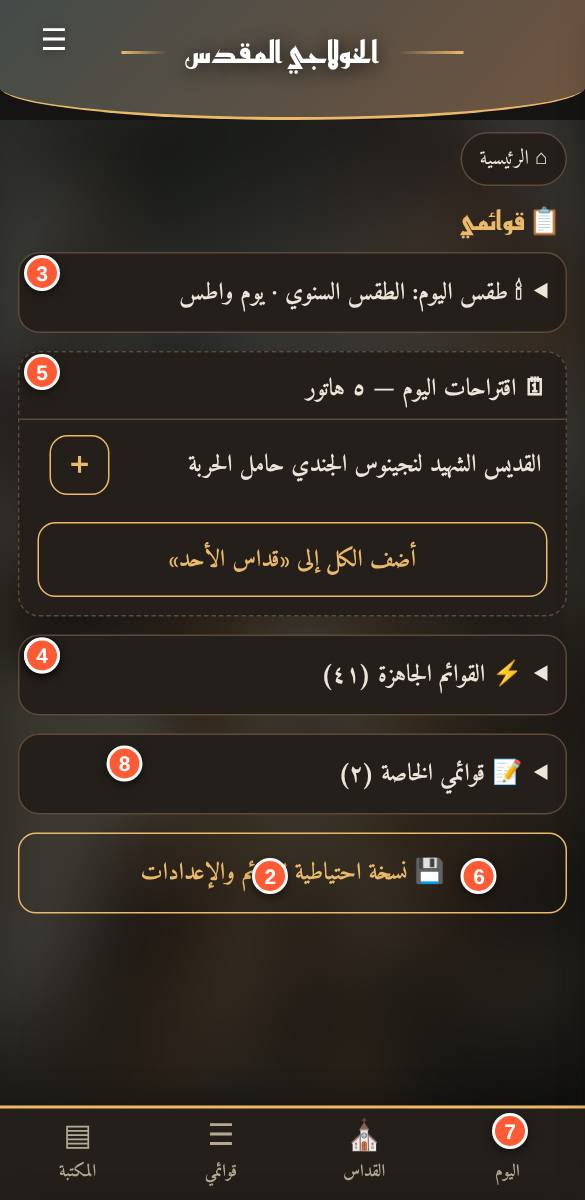
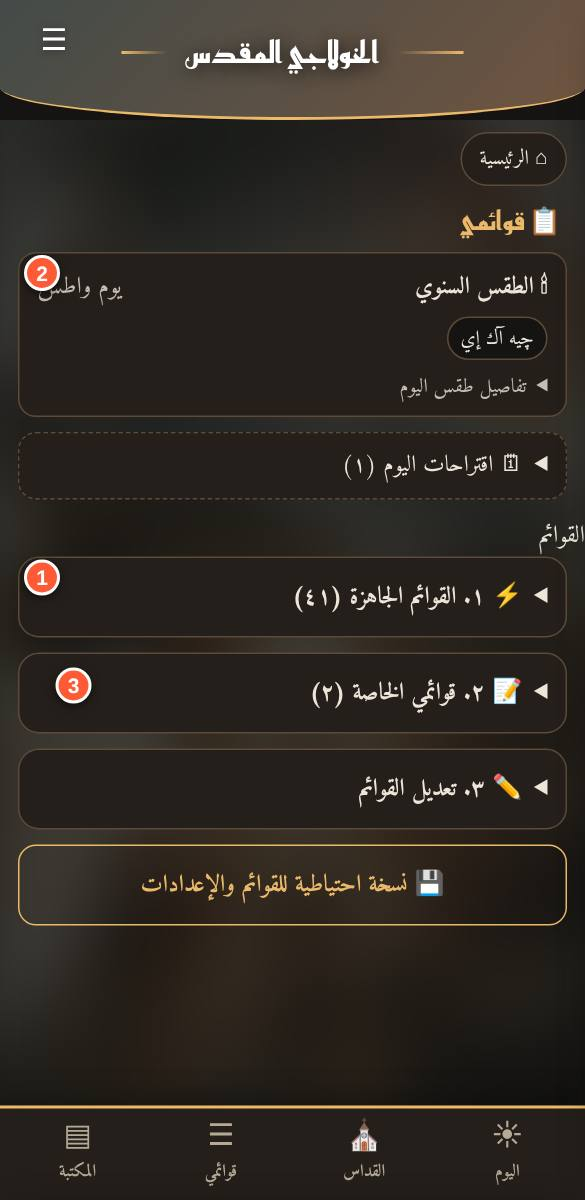
إعادة بناء «قوائمي»: كارت طقس اليوم الصغير وثلاثة أقسام (جاهزة، خاصة، تعديل) (1.6.0)
Claude-Session: https://claude.ai/code/session_01TxsQH8W41ZBNhnMhe9bVaK

diff --git a/index.html b/index.html
@@ -570,6 +570,10 @@ html{scroll-padding-top:var(--tbh,0px)}
 .vx:before,.vx:after{content:"";flex:1;height:2px;background:linear-gradient(90deg,transparent,var(--acc),transparent);opacity:.55}
 .vx span{font-size:calc(var(--fs)*.9);line-height:1}
 .dxcur{margin:0 14px 8px;font-size:calc(var(--fs)*.7)}.dxcur small{opacity:.7}.dxall .dxi.cur{border-color:var(--acc)}
+.rtm{margin:0 12px 10px;padding:8px 12px;border:1.5px solid var(--line);border-radius:12px;background:var(--card)}.rtm1{display:flex;justify-content:space-between;gap:8px;font-size:calc(var(--fs)*.72)}.rtm1 span{opacity:.8}.rtm2{display:flex;flex-wrap:wrap;gap:4px;margin:6px 0}.rtch{font-size:calc(var(--fs)*.6);padding:2px 8px;border-radius:999px;background:var(--bg);border:1px solid var(--line)}.rtm details summary{font-size:calc(var(--fs)*.6);opacity:.8;cursor:pointer}.rtm ul{margin:4px 0;padding-inline-start:18px;font-size:calc(var(--fs)*.62)}.rtm small{display:block;opacity:.7;font-size:calc(var(--fs)*.55)}
+.dxtd2{margin:0 12px 10px;border:1.5px dashed var(--line);border-radius:12px;background:var(--card)}.dxtd2>summary{padding:8px 12px;font-size:calc(var(--fs)*.7);cursor:pointer}
+.dxsec{margin:0 12px 10px;border:1.5px solid var(--line);border-radius:14px;background:var(--card)}.dxsec>summary{padding:12px;font-weight:700;cursor:pointer}.dxin{padding:0 8px 10px}.dxsub{margin:10px 4px 4px;font-weight:700;font-size:calc(var(--fs)*.65);opacity:.8}
+#dxsel{width:100%;padding:10px;border-radius:10px;border:1.5px solid var(--line);background:var(--bg);color:var(--ink);font-size:calc(var(--fs)*.7)}.dxsr{margin:8px 0}.dxsr input{width:100%;padding:10px;border-radius:10px;border:1.5px solid var(--line);background:var(--bg);color:var(--ink);font-size:calc(var(--fs)*.7)}
 .dxpre{margin:0 12px 12px;border:1.5px solid var(--line);border-radius:14px;background:var(--card)}.dxpre>summary{padding:12px;font-weight:700;cursor:pointer}
 .dxtd .dxsn{display:block;padding:0 14px 6px;color:var(--mute);font-size:.8rem}
 .dxi .go small{display:block;font-weight:400;font-size:0.72rem;color:var(--mute)}
@@ -1323,24 +1327,46 @@ function dxPresets(){
   var an=[];D.groups.forEach(function(g){if(g.id!=="tawzi")return;g.sections.forEach(function(x){if(x.occ==="always"&&BYID[x.id]&&BYID[x.id].has)an.push(x.id)})});
   if(an.length)out.push({k:"sunday",n:"أحد عادي — مدائح التوزيع السنوية",ids:an,t:sun});
   out.sort(function(a,b){return (b.t?1:0)-(a.t?1:0)});return out}
-var DXO={};
-function dxItemsHtml(x){var a=x.items.filter(function(id){return BYID[id]});if(!a.length)return '<div class="empty"><b>القائمة فارغة</b>اضغط ＋ بجوار أي ذكصولوجية أو قسم لإضافته، أو من الزر العائم أثناء القراءة.</div>';
-  return '<div class="dxl">'+a.map(function(id,i){return '<div class="dxi"><span class="n">'+ar9(i+1)+'</span><button class="go" data-lid="'+x.id+'" data-dxgo="'+id+'">'+esc(BYID[id].title)+'<small>'+esc(BYID[id].group.title)+'</small></button><button class="mv" data-lid="'+x.id+'" data-dxmv="'+id+'" data-d="-1" '+(i?'':'disabled')+' aria-label="أعلى">▲</button><button class="mv" data-lid="'+x.id+'" data-dxmv="'+id+'" data-d="1" '+(i<a.length-1?'':'disabled')+' aria-label="أسفل">▼</button><button class="mv" data-lid="'+x.id+'" data-dxdel="'+id+'" aria-label="حذف">✕</button></div>'}).join("")+'</div>'}
-function dxListRow(x){var first=x.items.filter(function(id){return BYID[id]})[0],fx=!!x.fixed,op=DXO[x.id]?' open':'';
-  return '<details class="dxl1" data-dxo="'+x.id+'"'+op+'><summary>'+(fx?'🔒 ':'')+esc(x.name)+' <small>'+ar9(x.items.length)+' قسمًا</small></summary><div class="dxbar">'+(first?'<button class="pri" data-lid="'+x.id+'" data-dxgo="'+first+'">▶ ابدأ القراءة</button>':'')+'<button data-lid="'+x.id+'" data-dxdup="1">⧉ '+(fx?'انسخها لقوائمي':'نسخ')+'</button>'+(fx?'':'<button data-lid="'+x.id+'" data-dxren="1">✎ تسمية</button><button data-lid="'+x.id+'" data-dxrmid="'+x.id+'">🗑 حذف</button>'+(x.items.length?'<button data-lid="'+x.id+'" data-dxclear="1">تفريغ</button>':''))+'</div>'+(fx?'<p class="hint" style="margin:0 12px 10px">🔒 قائمة ثابتة تتجدد مع المحتوى. انسخها لتعدّل عليها.</p>':dxItemsHtml(x))+'</details>'}
+var DXO={},DXSEL="";
+function riteMini(){
+  var r=null;try{r=window.KCAL&&KCAL.rite?KCAL.rite(new Date()):null}catch(e){}if(!r)return "";
+  var ch=r.hymns.map(function(x){return '<span class="rtch">'+esc(x)+'</span>'}).join("");
+  var det=(r.ebsTune?'<li>الإبصاليات بـ«'+esc(r.ebsTune)+'»</li>':'')+(r.doxTune?'<li>ذكصولوجيات رفع البخور بوزن: '+esc(r.doxTune)+'</li>':'')+r.notes.map(function(x){return '<li>'+esc(x)+'</li>'}).join("")+(r.occNotes||[]).map(function(x){return '<li>'+esc(x)+'</li>'}).join("");
+  return '<div class="rtm"><div class="rtm1"><b>🕯 '+esc(r.rite)+'</b><span>يوم '+esc(r.tune)+'</span></div><div class="rtm2">'+ch+'</div><details><summary>تفاصيل طقس اليوم</summary><ul>'+det+'</ul><small>المصدر: ملاحظات طقسية — كتاب أسامة لطفي (مسوّدة، لا تحل محل توجيه الكاهن).</small></details></div>'}
+function dxRows(x,own){var a=x.items.filter(function(id){return BYID[id]});if(!a.length)return '<div class="empty"><b>القائمة فارغة</b>أضف أقساما من مربع البحث أعلاه.</div>';
+  return '<div class="dxl">'+a.map(function(id,i){return '<div class="dxi"><span class="n">'+ar9(i+1)+'</span><button class="go" data-lid="'+x.id+'" data-dxgo="'+id+'">'+esc(BYID[id].title)+'<small>'+esc(BYID[id].group.title)+'</small></button>'+(own?'<button class="mv" data-lid="'+x.id+'" data-dxmv="'+id+'" data-d="-1" '+(i?'':'disabled')+' aria-label="أعلى">▲</button><button class="mv" data-lid="'+x.id+'" data-dxmv="'+id+'" data-d="1" '+(i<a.length-1?'':'disabled')+' aria-label="أسفل">▼</button><button class="mv" data-lid="'+x.id+'" data-dxdel="'+id+'" aria-label="حذف">✕</button>':'')+'</div>'}).join("")+'</div>'}
+function dxEditHtml(d,pr){
+  var opts='<optgroup label="القوائم الجاهزة">'+d.lists.filter(function(x){return x.fixed}).map(function(x){return '<option value="'+x.id+'"'+(DXSEL===x.id?' selected':'')+'>'+esc(x.name)+'</option>'}).join("")+pr.map(function(x){return '<option value="pre:'+x.k+'"'+(DXSEL==="pre:"+x.k?' selected':'')+'>'+esc(x.n)+'</option>'}).join("")+'</optgroup><optgroup label="قوائمي الخاصة">'+d.lists.filter(function(x){return !x.fixed}).map(function(x){return '<option value="'+x.id+'"'+(DXSEL===x.id?' selected':'')+'>'+esc(x.name)+'</option>'}).join("")+'</optgroup>';
+  var h='<select id="dxsel" aria-label="اختر القائمة"><option value="">— اختر قائمة لتعديلها أو نسخها —</option>'+opts+'</select>';
+  var sel=d.lists.filter(function(x){return x.id===DXSEL})[0],pre=DXSEL.indexOf("pre:")===0?pr.filter(function(x){return "pre:"+x.k===DXSEL})[0]:null;
+  if(!sel&&!pre)return h+'<p class="hint" style="margin:8px 4px">اختر قائمة من «الجاهزة» أو «الخاصة» لتنسخها أو تعدّلها أو تضيف إليها أو تحذف منها أو تغيّر اسمها.</p>';
+  if(pre){var pl={id:DXSEL,items:pre.ids};return h+'<div class="dxbar"><button class="pri" data-dxpre="'+pre.k+'">⧉ انسخها إلى قوائمي الخاصة</button></div><p class="hint" style="margin:0 4px 8px">قائمة جاهزة للمناسبة (للاطلاع فقط). انسخها لتعدّل عليها.</p>'+dxRows({id:DXSEL,items:pre.ids},false)}
+  var own=!sel.fixed;
+  h+='<div class="dxbar"><button data-lid="'+sel.id+'" data-dxdup="1">⧉ '+(own?'نسخ':'انسخها لقوائمي')+'</button>'+(own?'<button data-lid="'+sel.id+'" data-dxren="1">✎ تغيير الاسم</button><button data-lid="'+sel.id+'" data-dxrmid="'+sel.id+'">🗑 حذف القائمة</button>'+(sel.items.length?'<button data-lid="'+sel.id+'" data-dxclear="1">تفريغ</button>':''):'')+'</div>';
+  if(own)h+='<div class="dxsr"><input id="dxq" type="search" placeholder="🔎 أضف أقساما: اكتب جزءا من العنوان" autocomplete="off"><div id="dxres"></div></div>';
+  else h+='<p class="hint" style="margin:0 4px 8px">🔒 قائمة ثابتة تتجدد مع المحتوى (للاطلاع). انسخها لتعدّل عليها.</p>';
+  return h+dxRows(sel,own)}
 function dxView(){
-  var keep=document.querySelector(".dxpre")?window.scrollY:0;
+  var keep=document.querySelector(".dxsec")?window.scrollY:0;
   var d=dxd(),h='<div class="crumb"><button data-nav="#/">⌂ الرئيسية</button></div><div class="gh"><h2>📋 قوائمي</h2></div>';
-  h+=riteCard();
+  h+=riteMini();
   var t=dxToday(),tg=dxTgt(d);
   if(t.cd&&t.dx.length){var miss=tg?t.dx.filter(function(x){return tg.items.indexOf(x.id)<0}).length:0;
-    h+='<div class="dxtd"><b>🗓 اقتراحات اليوم — '+ar9(t.cd.d)+' '+esc(CMN[t.cd.m])+'</b>'+(t.season?'<small class="dxsn">'+esc(t.season)+'</small>':'')+t.dx.map(function(x){return '<div class="dxi"><button class="go" data-nav="#/s/'+x.id+'">'+esc(x.title)+'</button>'+dxBtn(x.id)+'</div>'}).join("")+(miss?'<button class="dxall" data-dxaddtoday="1">أضف الكل إلى «'+esc(shortN(tg.name,16))+'»</button>':'')+'</div>'}
+    h+='<details class="dxtd2"><summary>🗓 اقتراحات اليوم ('+ar9(t.dx.length)+')'+(t.season?' · '+esc(t.season):'')+'</summary>'+t.dx.map(function(x){return '<div class="dxi"><button class="go" data-nav="#/s/'+x.id+'">'+esc(x.title)+'</button>'+dxBtn(x.id)+'</div>'}).join("")+(miss?'<button class="dxall" data-dxaddtoday="1">أضف الكل إلى «'+esc(shortN(tg.name,16))+'»</button>':'')+'</details>'}
   var fixed=d.lists.filter(function(x){return x.fixed}),mine=d.lists.filter(function(x){return !x.fixed}),pr=dxPresets();
-  h+='<details class="dxpre" data-dxo="__ready"'+(DXO.__ready?' open':'')+'><summary>⚡ القوائم الجاهزة ('+ar9(fixed.length+pr.length)+')</summary><div class="dxin">'+fixed.map(function(x){var f1=x.items.filter(function(id){return BYID[id]})[0];return '<div class="dxi"><span class="go">🔒 '+esc(x.name)+'<small>'+ar9(x.items.length)+' قسمًا</small></span>'+(f1?'<button class="mv" data-lid="'+x.id+'" data-dxgo="'+f1+'">▶ قراءة</button>':'')+'<button class="mv" data-lid="'+x.id+'" data-dxdup="1">＋ قائمة</button></div>'}).join("")
-    +(pr.length?'<div class="h2"><span>قوائم المناسبات</span></div><p class="hint" style="margin:6px 14px">«▶ قراءة» تبدأ قراءة القائمة فورا، و«＋ قائمة» تنسخها إلى قوائمك الخاصة لتعدّل عليها.</p>'+pr.map(function(x){return '<div class="dxi"><span class="go">'+(x.t?'🗓 ':'')+esc(x.n)+'<small>'+ar9(x.ids.length)+' قسمًا'+(x.t?' · اليوم':'')+'</small></span><button class="mv" data-dxpre="'+x.k+'" data-go="1">▶ قراءة</button><button class="mv" data-dxpre="'+x.k+'">＋ قائمة</button></div>'}).join(""):'')+'</div></details>';
-  h+='<details class="dxpre" data-dxo="__mine"'+(DXO.__mine?' open':'')+'><summary>📝 قوائمي الخاصة ('+ar9(mine.length)+')</summary><div class="dxin">'+mine.map(dxListRow).join("")+'<div class="dxbar"><button data-dxnew="1">＋ قائمة جديدة</button></div></div></details>';
+  var rd=function(x){var f1=x.items.filter(function(id){return BYID[id]})[0];return '<div class="dxi"><span class="go">'+(x.fixed?'🔒 ':'')+esc(x.name)+'<small>'+ar9(x.items.length)+' قسمًا</small></span>'+(f1?'<button class="mv" data-lid="'+x.id+'" data-dxgo="'+f1+'">▶ قراءة</button>':'')+'</div>'};
+  var sec=function(k,title,body,open){return '<details class="dxsec" data-dxo="'+k+'"'+((DXO[k]===undefined?open:DXO[k])?' open':'')+'><summary>'+title+'</summary><div class="dxin">'+body+'</div></details>'};
+  h+='<div class="h2"><span>القوائم</span></div>';
+  h+=sec("__ready","⚡ ١. القوائم الجاهزة ("+ar9(fixed.length+pr.length)+")",fixed.map(rd).join("")+(pr.length?'<div class="dxsub">قوائم المناسبات</div>'+pr.map(function(x){return '<div class="dxi"><span class="go">'+(x.t?'🗓 ':'')+esc(x.n)+'<small>'+ar9(x.ids.length)+' قسمًا'+(x.t?' · اليوم':'')+'</small></span><button class="mv" data-dxpre="'+x.k+'" data-go="1">▶ قراءة</button></div>'}).join(""):''),false);
+  h+=sec("__mine","📝 ٢. قوائمي الخاصة ("+ar9(mine.length)+")",(mine.length?mine.map(rd).join(""):'<p class="hint" style="margin:6px 4px">لا توجد قوائم خاصة بعد. انسخ قائمة جاهزة أو أنشئ قائمة جديدة من قسم التعديل.</p>')+'<div class="dxbar"><button data-dxnew="1">＋ قائمة جديدة</button></div>',false);
+  h+=sec("__edit","✏ ٣. تعديل القوائم",dxEditHtml(d,pr),!!DXSEL);
   h+='<div class="dxbar"><button data-ks="export">💾 نسخة احتياطية للقوائم والإعدادات</button></div>'+bnav('');app.innerHTML=h;window.scrollTo(0,keep)}
 document.addEventListener("toggle",function(e){var o=e.target&&e.target.getAttribute&&e.target.getAttribute("data-dxo");if(o)DXO[o]=e.target.open},true);
+window.addEventListener("load",function(){setTimeout(function(){if(location.hash==="#/dxlist"&&!document.querySelector(".rtm")&&window.KCAL)dxView()},300)});
+document.addEventListener("change",function(e){if(e.target&&e.target.id==="dxsel"){DXSEL=e.target.value;DXO.__edit=true;dxView()}});
+document.addEventListener("input",function(e){if(!e.target||e.target.id!=="dxq")return;var q=norm(e.target.value),out=document.getElementById("dxres");if(!out)return;if(q.length<2){out.innerHTML="";return}
+  var d=dxd(),sel=d.lists.filter(function(x){return x.id===DXSEL})[0],res=[];Object.keys(BYID).forEach(function(id){var b=BYID[id];if(b.has&&res.length<30&&norm(b.title).indexOf(q)>=0&&(!sel||sel.items.indexOf(id)<0))res.push(id)});
+  out.innerHTML=res.length?res.map(function(id){return '<div class="dxi"><span class="go">'+esc(BYID[id].title)+'<small>'+esc(BYID[id].group.title)+'</small></span><button class="mv" data-dxaddp="'+id+'">＋ أضف</button></div>'}).join(""):'<p class="hint" style="margin:6px 4px">لا نتائج.</p>'});
 function dxTgt(d){d=d||dxd();var c=d.lists.filter(function(x){return x.id===d.cur})[0];if(c&&!c.fixed)return c;var u=d.lists.filter(function(x){return !x.fixed})[0];if(!u){u={id:"l"+Date.now(),name:"قائمتي",items:[]};d.lists.push(u);dxw(d)}return u}
 var CMN=["توت","بابة","هاتور","كيهك","طوبة","أمشير","برمهات","برمودة","بشنس","بؤونة","أبيب","مسرى","النسيء"];
 var OCCL=[["nayrouz","عيد النيروز"],["cross","عيد الصليب"],["nativity","الميلاد"],["kiahk","شهر كيهك"],["kiahk-sun1","أحد كيهك الأول"],["kiahk-sun2","أحد كيهك الثاني"],["kiahk-sun3","أحد كيهك الثالث"],["kiahk-sun4","أحد كيهك الرابع"],["epiphany","الغطاس"],["nineveh","صوم نينوى"],["lent","الصوم الكبير"],["lent-sun1","الأحد الأول من الصوم الكبير"],["lent-sun2","الأحد الثاني من الصوم الكبير"],["lent-sun3","الأحد الثالث من الصوم الكبير"],["lent-sun4","الأحد الرابع من الصوم الكبير"],["lent-sun5","الأحد الخامس من الصوم الكبير"],["lent-sun6","الأحد السادس من الصوم الكبير"],["lentfri","جمعة ختام الصوم"],["lazarus","سبت لعازر"],["palm","أحد الشعانين"],["holyweek","أسبوع الآلام"],["joysat","سبت الفرح"],["resurrection","القيامة"],["pascha","الخمسين المقدسة"],["thomas","أحد توما"],["pascha-sun2","الأحد الثاني من الخمسين"],["pascha-sun3","الأحد الثالث من الخمسين"],["pascha-sun4","الأحد الرابع من الخمسين"],["pascha-sun5","الأحد الخامس من الخمسين"],["pascha-sun6","الأحد السادس من الخمسين"],["ascension","الصعود"],["pentecost","العنصرة"],["apostlesfast","صوم الرسل"],["apostles","عيد الرسل"],["annunciation","البشارة"],["virgin","السيدة العذراء"],["michael","رئيس الملائكة ميخائيل"]];
@@ -1470,12 +1496,13 @@ app.addEventListener("click",function(e){
   var da=e.target.closest("[data-dxadd]");if(da){var id=da.getAttribute("data-dxadd"),a=dxl(),k=a.indexOf(id);if(k>=0)a.splice(k,1);else a.push(id);dxs(a);
     document.querySelectorAll('[data-dxadd="'+id+'"]').forEach(function(b){if(b.id==="dxfab")return;var on=a.indexOf(id)>=0;b.classList.toggle("on",on);b.textContent=on?"✓":"＋"});var cb=document.querySelector('.dxbar [data-nav="#/dxlist"]');if(cb)cb.textContent='📋 '+shortN(dxc().name,18)+' ('+ar9(a.length)+') · قوائمي';dxFab();return}
   var li=e.target.closest("[data-lid]");if(li){var dq=dxd();dq.cur=li.getAttribute("data-lid");dxw(dq)}
-  var pc=e.target.closest("[data-dxpre]");if(pc){var P2=dxPresets().filter(function(x){return x.k===pc.getAttribute("data-dxpre")})[0];if(P2){var dd2=dxd(),id8="l"+Date.now();dd2.lists.push({id:id8,name:P2.n,items:P2.ids.slice()});dd2.cur=id8;dxw(dd2);if(pc.getAttribute("data-go")&&P2.ids.length){PL=true;location.hash="#/s/"+P2.ids[0];return}dxView();toast("أُضيفت قائمة «"+P2.n+"»")}return}
+  var ap=e.target.closest("[data-dxaddp]");if(ap){var da=dxd();da.lists.forEach(function(l){if(l.id===DXSEL&&!l.fixed){var pid=ap.getAttribute("data-dxaddp");if(l.items.indexOf(pid)<0)l.items.push(pid)}});dxw(da);var qv=document.getElementById("dxq"),qq=qv?qv.value:"";dxView();var q2=document.getElementById("dxq");if(q2){q2.value=qq;q2.dispatchEvent(new Event("input",{bubbles:true}))}toast("أُضيف");return}
+  var pc=e.target.closest("[data-dxpre]");if(pc){var P2=dxPresets().filter(function(x){return x.k===pc.getAttribute("data-dxpre")})[0];if(P2){var dd2=dxd(),id8="l"+Date.now();dd2.lists.push({id:id8,name:P2.n,items:P2.ids.slice()});dd2.cur=id8;dxw(dd2);if(pc.getAttribute("data-go")&&P2.ids.length){PL=true;location.hash="#/s/"+P2.ids[0];return}DXSEL=id8;DXO.__edit=true;dxView();toast("أُضيفت قائمة «"+P2.n+"»")}return}
   var sw=e.target.closest("[data-dxsw]");if(sw){var d1=dxd();d1.cur=sw.getAttribute("data-dxsw");dxw(d1);dxView();return}
-  if(e.target.closest("[data-dxnew]")){var nn=prompt("اسم القائمة الجديدة (مثال: قداس الأحد)");if(nn&&nn.trim()){var d2=dxd(),id2="l"+Date.now();d2.lists.push({id:id2,name:nn.trim(),items:[]});d2.cur=id2;dxw(d2)}dxView();return}
+  if(e.target.closest("[data-dxnew]")){var nn=prompt("اسم القائمة الجديدة (مثال: قداس الأحد)");if(nn&&nn.trim()){var d2=dxd(),id2="l"+Date.now();d2.lists.push({id:id2,name:nn.trim(),items:[]});d2.cur=id2;dxw(d2);DXSEL=id2;DXO.__edit=true}dxView();return}
   if(e.target.closest("[data-dxren]")){var d3=dxd(),c3=dxc(),rn=prompt("اسم القائمة",c3.name);if(rn&&rn.trim()){d3.lists.forEach(function(x){if(x.id===d3.cur)x.name=rn.trim()});dxw(d3)}dxView();return}
-  if(e.target.closest("[data-dxdup]")){var d4=dxd(),c4=dxc(),id4="l"+Date.now();d4.lists.push({id:id4,name:c4.name+" (نسخة)",items:c4.items.slice()});d4.cur=id4;dxw(d4);dxView();return}
-  var rm=e.target.closest("[data-dxrmid]");if(rm){var rid=rm.getAttribute("data-dxrmid"),dr=dxd(),nm=(dr.lists.filter(function(x){return x.id===rid})[0]||{}).name;if(confirm("حذف القائمة «"+nm+"»؟")){dr.lists=dr.lists.filter(function(x){return x.id!==rid});dxw(dr)}dxView();return}
+  if(e.target.closest("[data-dxdup]")){var d4=dxd(),c4=dxc(),id4="l"+Date.now();d4.lists.push({id:id4,name:c4.name+" (نسخة)",items:c4.items.slice()});d4.cur=id4;dxw(d4);DXSEL=id4;DXO.__edit=true;dxView();return}
+  var rm=e.target.closest("[data-dxrmid]");if(rm){var rid=rm.getAttribute("data-dxrmid"),dr=dxd(),nm=(dr.lists.filter(function(x){return x.id===rid})[0]||{}).name;if(confirm("حذف القائمة «"+nm+"»؟")){dr.lists=dr.lists.filter(function(x){return x.id!==rid});dxw(dr);if(DXSEL===rid)DXSEL=""}dxView();return}
   if(e.target.closest("[data-dxrmlist]")){var c5=dxc();if(confirm("حذف القائمة «"+c5.name+"»؟")){var d5=dxd();d5.lists=d5.lists.filter(function(x){return x.id!==d5.cur});dxw(d5)}dxView();return}
   if(e.target.closest("[data-dxaddtoday]")){var a6=dxTgt().items.slice();dxToday().dx.forEach(function(x){if(a6.indexOf(x.id)<0)a6.push(x.id)});dxs(a6);dxView();return}
   var qf=e.target.closest("[data-qfs]");if(qf){S.fs=Math.max(14,Math.min(40,S.fs+parseInt(qf.getAttribute("data-qfs"),10)));save();apply();return}

diff --git a/tools/make-guide.js b/tools/make-guide.js
@@ -29,7 +29,7 @@ const SPECS=[
  marks:[['.jin','ما هذه الخريطة؟','شرح قصير للفكرة.'],['.jt.hr','أنت هنا','المحطة التي تقابل ما تقرؤه الآن.'],['.jt:nth-of-type(1) .jm','يقابل في القداس','الجزء من القداس الذي يقابل هذه المحطة.']],
  nav:'في أعلى القراءة: اضغط الصف لتصغير الشريط لدوائر المحطات فقط، وبنفس الضغطة يكبر.'},
 {id:'lists',title:'قوائمي',hash:'#/dxlist',summary:'تجمّع قبل القداس الأقسام التي ستصليها، بالترتيب الذي تريده، وتقرؤها بعدها متتالية.',
- marks:[['.dxpre','القوائم الجاهزة وقوائمي','قسمان مطويان: الجاهزة (سنوي الأحد، باقي الأيام، آدام، واطس، المناسبات) وقوائمك الخاصة. افتح قائمة لتبدأ قراءتها أو تنسخها أو تعدّلها.'],['[data-dxren]','تسمية · نسخ · حذف','إدارة القائمة الحالية.'],['.rtc','طقس اليوم','الطقس ويوم آدام/واطس وألحان اليوم وأواشيه؛ اضغط لفتح التفاصيل.'],['.dxpre','قوائم جاهزة','قوائم مرتبة لكل مناسبة ولأي أحد؛ اضغط واحدة لتُنسخ إلى قوائمك.'],['.dxtd','اقتراحات اليوم','ذكصولوجيات تناسب اليوم. ＋ لإضافتها، أو «أضف الكل».'],['.dxbar .pri','ابدأ القراءة','يقرأ من أول قسم ويتنقل بترتيب القائمة.'],['.dxi .n','الترتيب','رقم القسم في القائمة.'],['.dxi .mv','▲ ▼ ✕','تحريك القسم لأعلى أو لأسفل أو حذفه.']]},
+ marks:[['.dxsec','أقسام القوائم','١) الجاهزة ٢) الخاصة ٣) تعديل القوائم: اختر قائمة لتنسخها أو تعدّلها أو تضيف إليها أو تحذف منها.'],['[data-dxren]','تسمية · نسخ · حذف','إدارة القائمة الحالية.'],['.rtm','طقس اليوم','كارت صغير: الطقس ويوم آدام/واطس وألحان اليوم، وتفاصيل تُفتح.'],['.dxpre','قوائم جاهزة','قوائم مرتبة لكل مناسبة ولأي أحد؛ اضغط واحدة لتُنسخ إلى قوائمك.'],['.dxtd','اقتراحات اليوم','ذكصولوجيات تناسب اليوم. ＋ لإضافتها، أو «أضف الكل».'],['.dxbar .pri','ابدأ القراءة','يقرأ من أول قسم ويتنقل بترتيب القائمة.'],['.dxi .n','الترتيب','رقم القسم في القائمة.'],['.dxi .mv','▲ ▼ ✕','تحريك القسم لأعلى أو لأسفل أو حذفه.']]},
 {id:'library',title:'المكتبة',hash:'#/lib',h:1000,summary:'كل محتوى الكتاب في مكان واحد.',
  marks:[['.search.lib','بحث','اضغط وابحث بالعربي أو القبطي.'],['.grid .g','أقسام الكتاب','رفع البخور، القداسات، القسمة، الذكصولوجيات، دليل الطقس وغيرها.'],['.chips','أدوات','الفهرس الكامل، تأملاتي (وما كتبته أنت)، ودراسة (مقارنة القداسات وقاموس القبطي).']]},
 {id:'occasions',title:'ألحان المناسبات',hash:'#/g/occ',summary:'ذكصولوجيات ومدائح كل مناسبة في مكان واحد، وتبقى ضمن اقتراحات اليوم.',

diff --git a/guide-news.js b/guide-news.js
@@ -1,7 +1,8 @@
 /* سجل الميزات الجديدة (الأحدث أولا). كل ميزة جديدة تُضاف هنا كمدخل جديد في أعلى القائمة،
    ثم تُحدَّث مواصفة الصفحة المتأثرة في tools/make-guide.js وتُعاد اللقطات (node tools/make-guide.js). */
-window.KG_VERSION="1.5.12";
+window.KG_VERSION="1.6.0";
 window.KG_NEWS=[
+{v:"1.6.0",t:"إعادة بناء صفحة «قوائمي»",x:"أعلى الصفحة كارت صغير لطقس اليوم (الطقس ويوم آدام/واطس وألحان اليوم) بتفاصيل قابلة للفتح، ثم اقتراحات اليوم، ثم ثلاثة أقسام: ١) القوائم الجاهزة بالترتيب (سنوي الأحد، سنوي باقي الأيام، آدام، واطس، ثم المناسبات) مع ▶ قراءة، ٢) قوائمي الخاصة، ٣) تعديل القوائم: اختر أي قائمة من أول قسمين من قائمة منسدلة لتنسخها أو تغيّر اسمها أو تحذفها أو تضيف إليها أقساما بالبحث أو تحذف منها أو تعيد ترتيبها."},
 {v:"1.5.12",t:"أزرار موحدة للقوائم الجاهزة",x:"كل قائمة جاهزة (الأربع الثابتة وقوائم المناسبات) عليها الآن زرّان متشابهان: «▶ قراءة» لبدء القراءة فورا، و«＋ قائمة» لنسخها إلى قوائمك الخاصة. وكان ＋ ظاهرا لقوائم المناسبات فقط."},
 {v:"1.5.11",t:"صفحة «قوائمي» بشكل جديد",x:"أعلى الصفحة بطاقة «طقس اليوم»، ثم اقتراحات اليوم، ثم «القوائم الجاهزة» مطوية افتراضيا (سنوي الأحد، سنوي باقي الأيام، آدام، واطس، ثم قوائم المناسبات)، ثم «قوائمي الخاصة» مطوية أيضا. افتح أي قائمة لترى ▶ ابدأ القراءة والنسخ والتسمية والحذف وترتيب أقسامها. وحُذف العرض الطويل للأقسام تحت الصفحة. وصار ＋ الإضافة يضيف دائما إلى قائمتك الخاصة."},
 {v:"1.5.10",t:"قائمتا القداس السنوي: الأحد وباقي الأيام",x:"أُضيفت قائمتان جاهزتان ثابتتان في أول «قوائمي»: «قداس سنوي: الأحد» و«قداس سنوي: باقي أيام الأسبوع»، تليهما قائمتا الآدام والواطس. قائمة الأحد فيها أوشية القرابين بلا المسافرين، وقائمة باقي الأيام فيها المسافرين بلا القرابين، حسب ملاحظات أسامة لطفي."},

diff --git a/sw.js b/sw.js
@@ -1,4 +1,4 @@
-const CACHE_NAME='khulagi-v1.5.12';
+const CACHE_NAME='khulagi-v1.6.0';
 const FILES=['./','index.html','icon-192.png','icon-512.png','guide-news.js','calendar.js','content-tawzi.txt','guide-pages.js','guide/doxologies.jpg','guide/occasions.jpg','guide/library.jpg','guide/lists.jpg','guide/lit.jpg','guide/notes.jpg','guide/post.jpg','guide/pre.jpg','guide/reader.jpg','guide/settings.jpg','guide/sidx.jpg','guide/splash.jpg','guide/story.jpg','guide/today.jpg','reemkufi-arabic-700-normal.woff2','dawn.jpg','data.js','study.js','swipe.js','live.js','story.js','study-data.js','data-bible.js','content-raf.txt','content-bas.txt','content-greg.txt','content-cyr.txt','content-qisam.txt','content-misc.txt','content-bless.txt','content-app.txt','content-taqs.txt','content-dox.txt','manifest.webmanifest','amiri-arabic-400-normal.woff2','amiri-arabic-700-normal.woff2','amiri-latin-400-normal.woff2','tajawal-arabic-400.woff2','tajawal-latin-400.woff2','tajawal-arabic-700.woff2','tajawal-latin-700.woff2','cairo-arabic-400-normal.woff2','cairo-arabic-700-normal.woff2','el-messiri-arabic-400-normal.woff2','el-messiri-arabic-700-normal.woff2','lateef-arabic-400-normal.woff2','lateef-arabic-700-normal.woff2','markazi-text-arabic-400-normal.woff2','markazi-text-arabic-700-normal.woff2','noto-naskh-arabic-arabic-400-normal.woff2','noto-naskh-arabic-arabic-700-normal.woff2','reem-kufi-arabic-400-normal.woff2','reem-kufi-arabic-700-normal.woff2','scheherazade-new-arabic-400-normal.woff2','scheherazade-new-arabic-700-normal.woff2','amiri-latin-700-normal.woff2','noto-sans-coptic-coptic-400-normal.woff2','noto-sans-coptic-latin-400-normal.woff2'];
 self.addEventListener('install',e=>{e.waitUntil(caches.open(CACHE_NAME).then(c=>Promise.all(FILES.map(f=>c.add(new Request(f,{cache:'reload'})).catch(()=>{})))).then(()=>self.skipWaiting()))});
 self.addEventListener('activate',e=>{e.waitUntil(caches.keys().then(k=>Promise.all(k.filter(x=>x!==CACHE_NAME).map(x=>caches.delete(x)))).then(()=>self.clients.claim()))});

diff --git a/guide-pages.js b/guide-pages.js
@@ -251,41 +251,16 @@ window.KG_PAGES=[
   "items": [
    [
     1,
-    "القوائم الجاهزة وقوائمي",
-    "قسمان مطويان: الجاهزة (سنوي الأحد، باقي الأيام، آدام، واطس، المناسبات) وقوائمك الخاصة. افتح قائمة لتبدأ قراءتها أو تنسخها أو تعدّلها."
+    "أقسام القوائم",
+    "١) الجاهزة ٢) الخاصة ٣) تعديل القوائم: اختر قائمة لتنسخها أو تعدّلها أو تضيف إليها أو تحذف منها."
    ],
    [
     2,
-    "تسمية · نسخ · حذف",
-    "إدارة القائمة الحالية."
+    "طقس اليوم",
+    "كارت صغير: الطقس ويوم آدام/واطس وألحان اليوم، وتفاصيل تُفتح."
    ],
    [
     3,
-    "طقس اليوم",
-    "الطقس ويوم آدام/واطس وألحان اليوم وأواشيه؛ اضغط لفتح التفاصيل."
-   ],
-   [
-    4,
-    "قوائم جاهزة",
-    "قوائم مرتبة لكل مناسبة ولأي أحد؛ اضغط واحدة لتُنسخ إلى قوائمك."
-   ],
-   [
-    5,
-    "اقتراحات اليوم",
-    "ذكصولوجيات تناسب اليوم. ＋ لإضافتها، أو «أضف الكل»."
-   ],
-   [
-    6,
-    "ابدأ القراءة",
-    "يقرأ من أول قسم ويتنقل بترتيب القائمة."
-   ],
-   [
-    7,
-    "الترتيب",
-    "رقم القسم في القائمة."
-   ],
-   [
-    8,
     "▲ ▼ ✕",
     "تحريك القسم لأعلى أو لأسفل أو حذفه."
    ]
